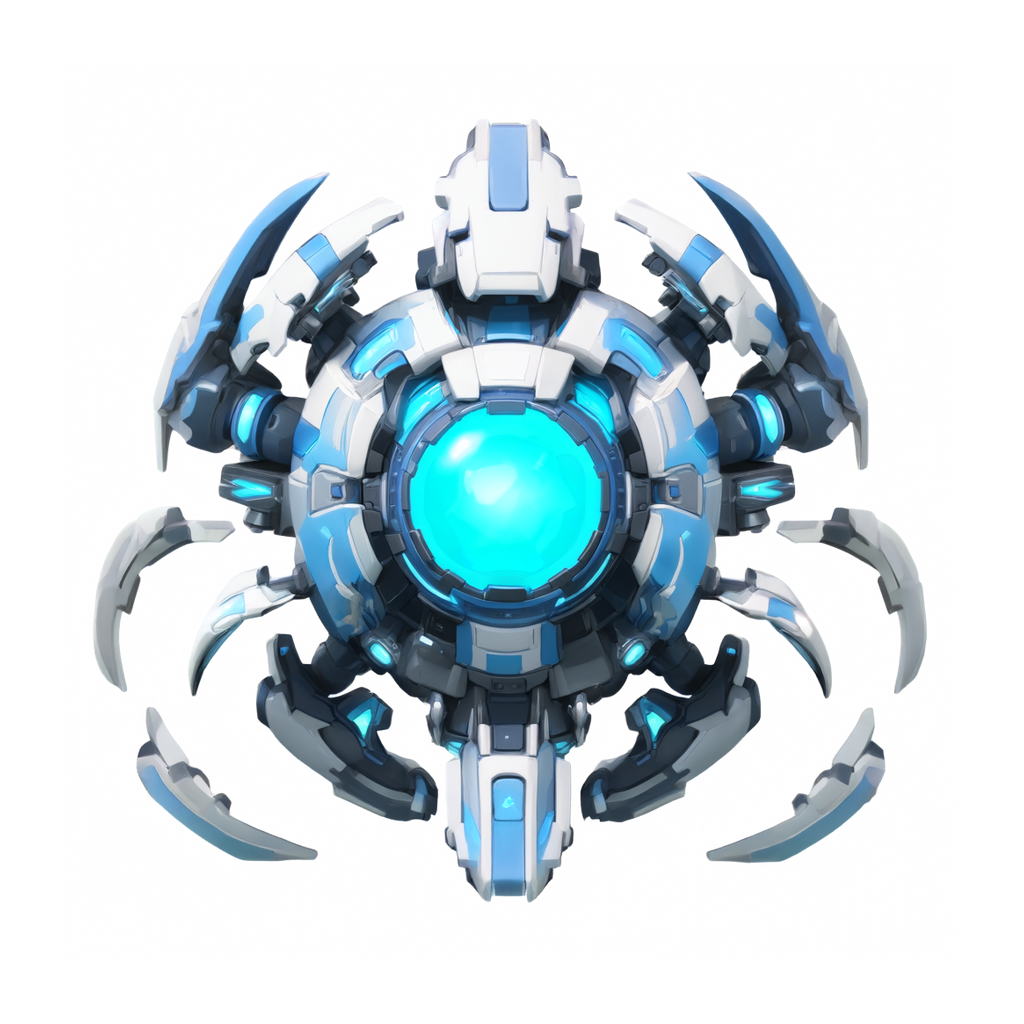
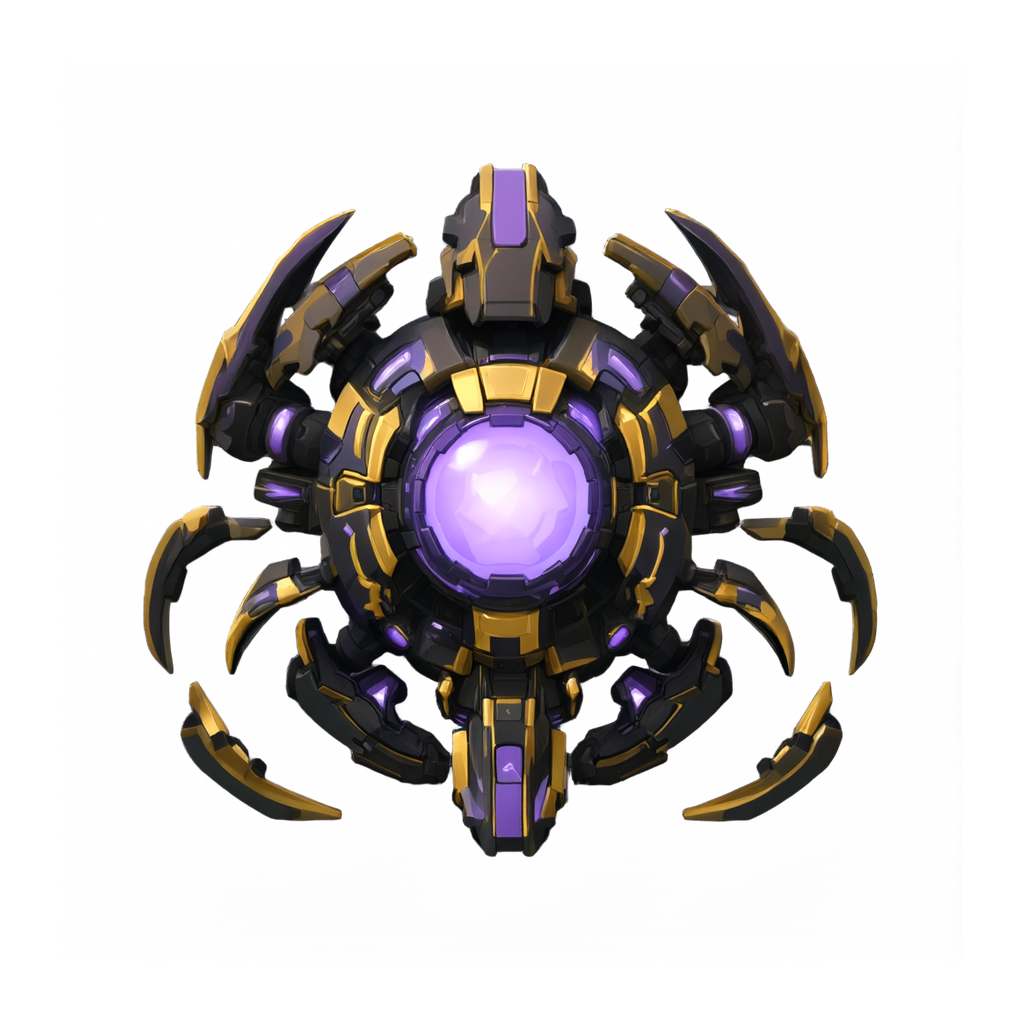
Complete 9-type normal and elite enemy roster

diff --git a/docs/ENEMY_DESIGN.md b/docs/ENEMY_DESIGN.md
@@ -63,3 +63,11 @@ Wave introduction:
 - Stage 1: Aegis Warden at 34.5s, plus the late multi-stage Aegis wave
 - Stage 2: Rail Lancer at 34.5s, Mine Seeder at 69s
 - Stage 3: Mine Seeder at 33s, Rail Lancer at 69s
+
+## Final Roster
+
+All 9 types have a normal (`_1`) and a distinct elite (`_2`) sprite:
+
+`01 small_fighter` · `02 medium_fighter` · `03 scout` · `04 bomber` · `05 mech` · `06 interceptor` · `07 aegis_warden` · `08 rail_lancer` · `09 mine_seeder`
+
+Roster board: `docs/enemies/roster-9x2.jpg`
